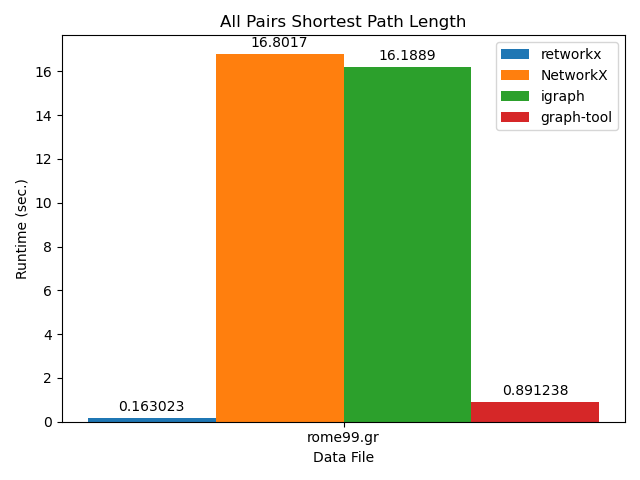
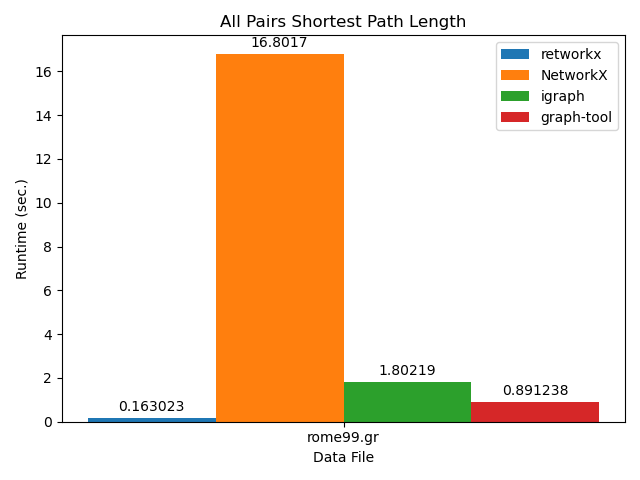
Use igraph's undocumented native all pairs function

Changed region(s): [[0.5312, 0.0938, 0.75, 0.8125]]

diff --git a/igraph_bench/shortest_path.py b/igraph_bench/shortest_path.py
@@ -37,8 +37,7 @@ def main():
         print("all pairs")
         for i in range(5):
             start = time.time()
-            for node in range(graph.vcount()):
-                graph.get_all_shortest_paths(node, weights="weight")
+            res = graph.shortest_paths(weights='weight')
             stop = time.time()
             all_pairs.append(stop - start)
     filename = ".".join(path.split("/")[-1].split(".")[0:2])
